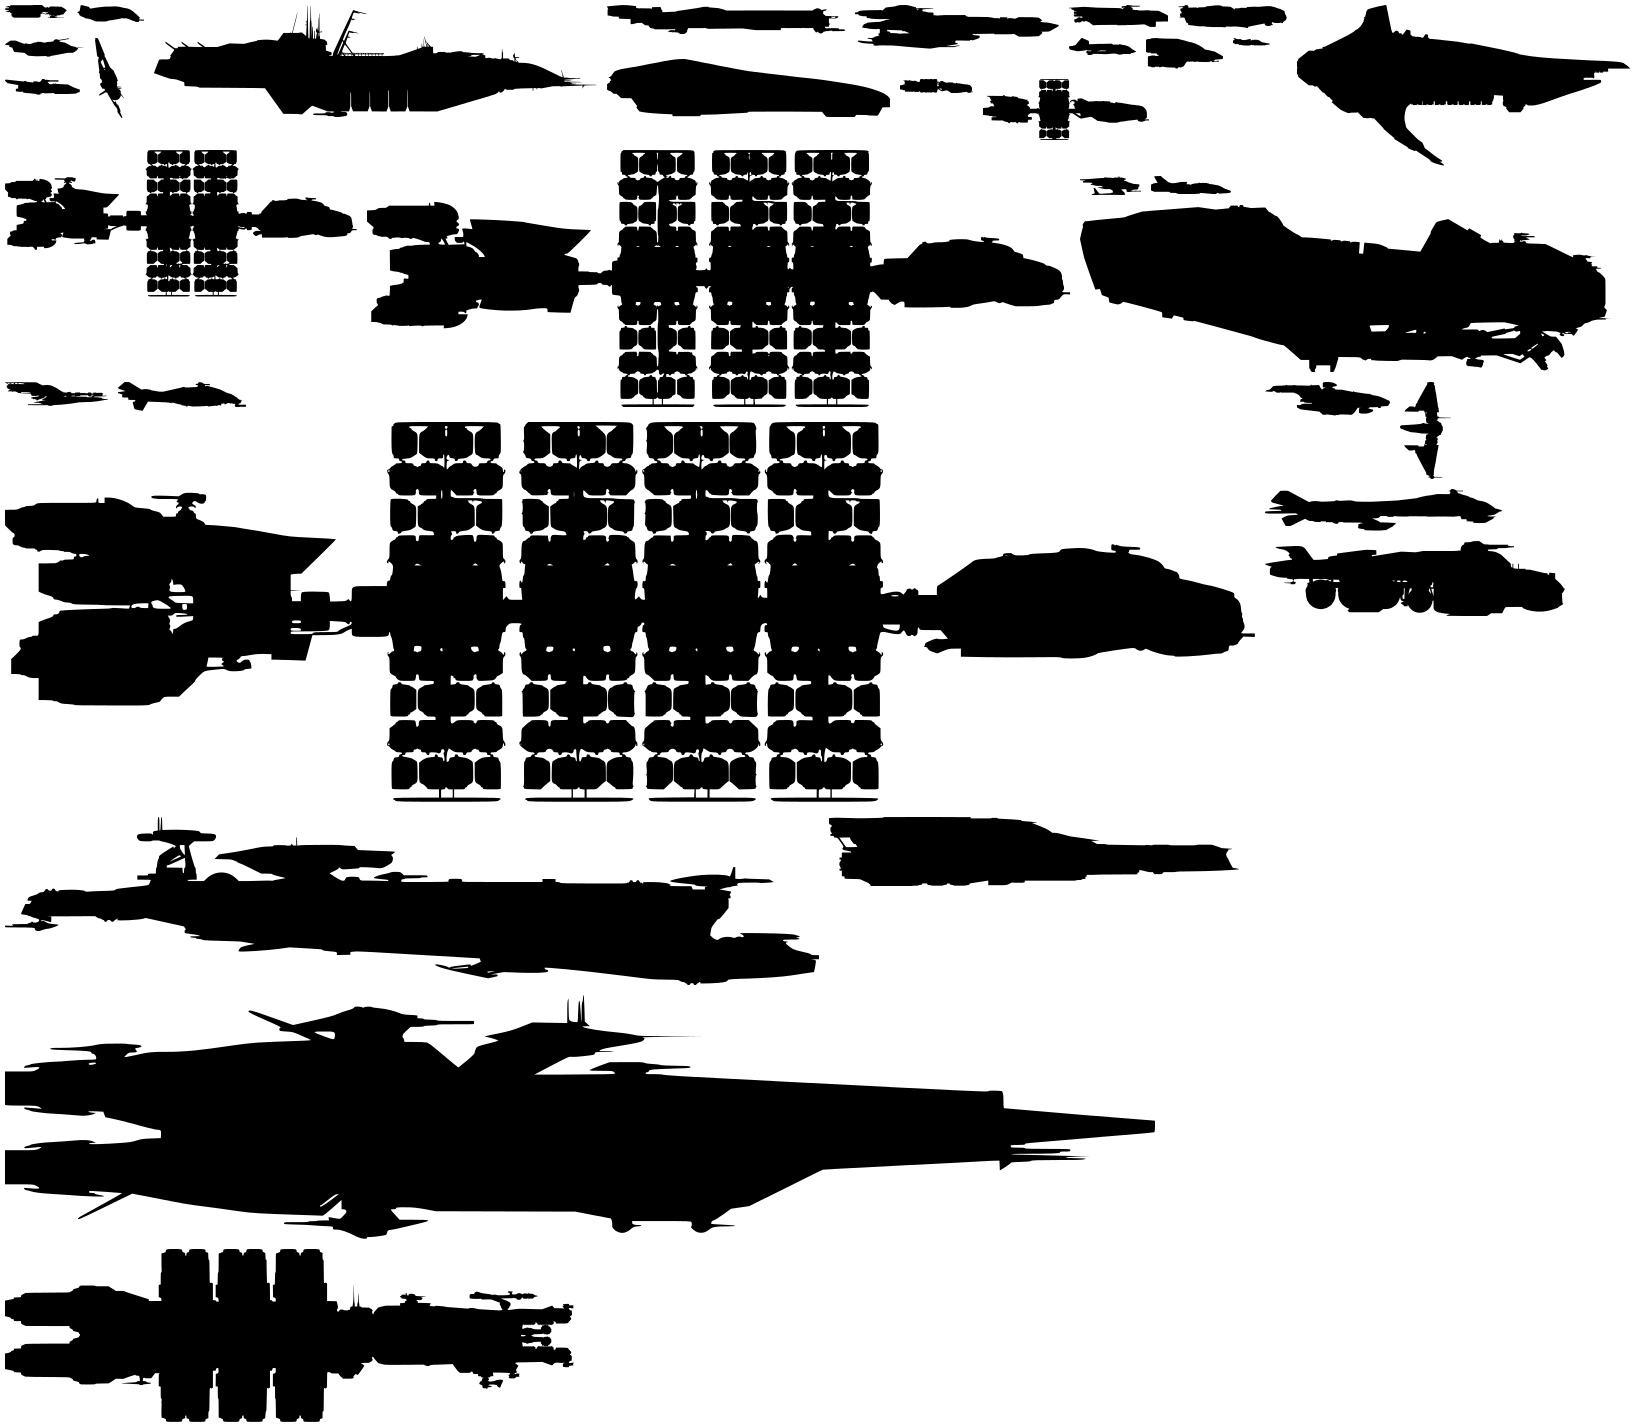
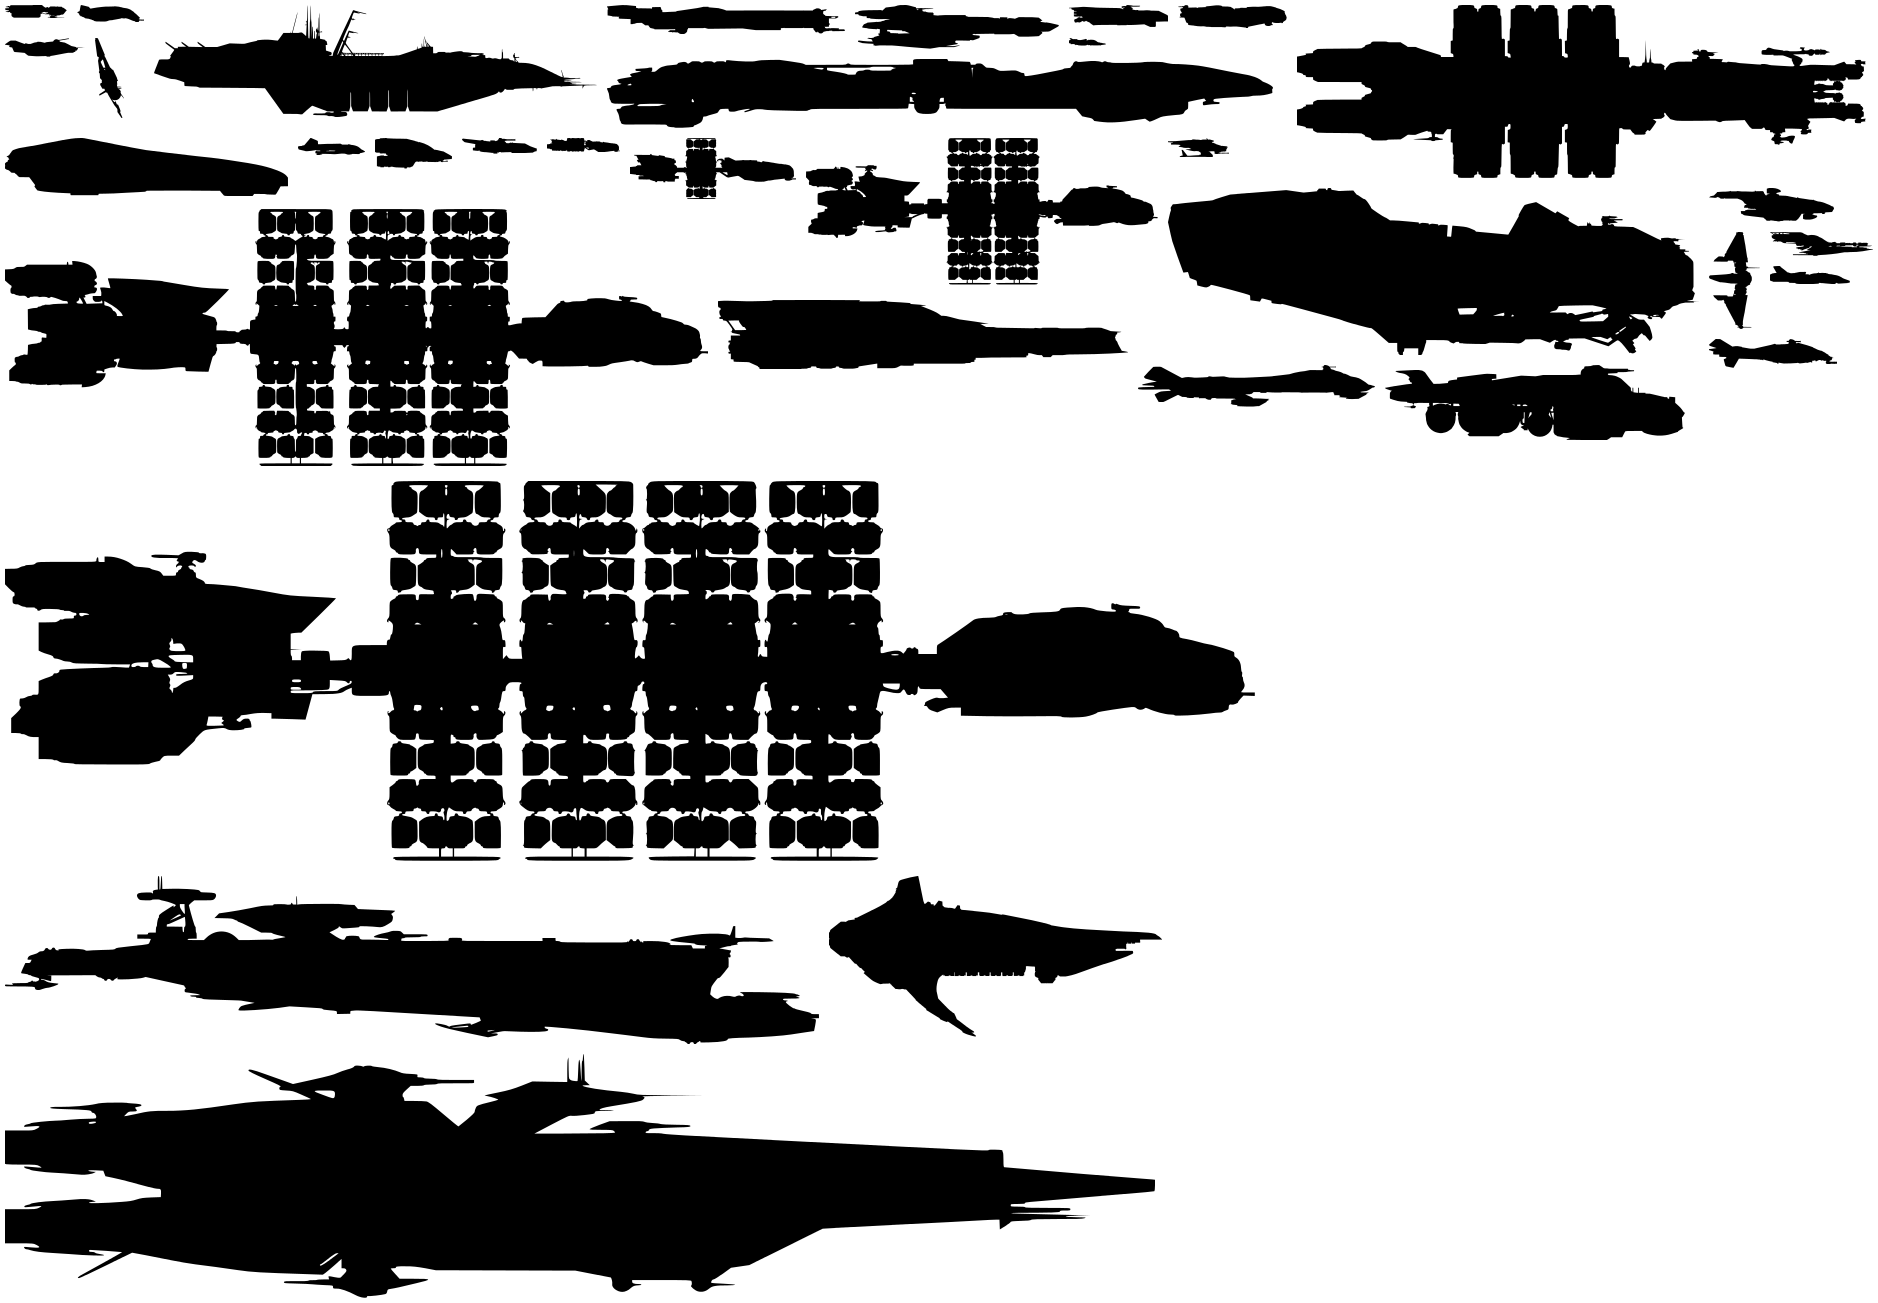
Merging #8

diff --git a/content/styles/Ships.css b/content/styles/Ships.css
@@ -43,6 +43,12 @@
     background-position: -1069px -5px;
 }
 
+.Endeavor {
+    width: 666px;
+    height: 69px;
+    background-position: -607px -59px;
+}
+
 .Freelancer {
     width: 109px;
     height: 23px;
@@ -52,7 +58,7 @@
 .Genesis {
     width: 283px;
     height: 58px;
-    background-position: -607px -59px;
+    background-position: -5px -138px;
 }
 
 .Gladiator {
@@ -64,67 +70,67 @@
 .Gladius {
     width: 67px;
     height: 17px;
-    background-position: -1069px -38px;
+    background-position: -298px -138px;
 }
 
 .Herald {
     width: 77px;
     height: 31px;
-    background-position: -1146px -38px;
+    background-position: -375px -138px;
 }
 
 .Hornet {
     width: 75px;
     height: 16px;
-    background-position: -5px -79px;
+    background-position: -462px -138px;
 }
 
 .Hull-A {
     width: 73px;
     height: 14px;
-    background-position: -900px -79px;
+    background-position: -547px -138px;
 }
 
 .Hull-B {
     width: 166px;
     height: 61px;
-    background-position: -983px -79px;
+    background-position: -630px -138px;
 }
 
 .Hull-C {
     width: 352px;
     height: 152px;
-    background-position: -5px -150px;
+    background-position: -806px -138px;
 }
 
 .Hull-D {
     width: 703px;
     height: 262px;
-    background-position: -367px -150px;
+    background-position: -5px -209px;
 }
 
 .Hull-E {
     width: 1250px;
     height: 385px;
-    background-position: -5px -422px;
+    background-position: -5px -481px;
 }
 
 .Idris {
     width: 814px;
     height: 168px;
-    background-position: -5px -817px;
+    background-position: -5px -876px;
 }
 
 .Javelin {
     width: 1150px;
     height: 244px;
-    background-position: -5px -995px;
+    background-position: -5px -1054px;
 }
 
 .Jump {
     width: 410px;
     height: 69px;
-    background-position: -829px -817px;
+    background-position: -718px -300px;
 }
 
 .Khartu {
@@ -136,71 +142,71 @@
 .M50 {
     width: 37px;
     height: 8px;
-    background-position: -1233px -38px;
+    background-position: -1069px -38px;
 }
 
 .Merchantman {
     width: 333px;
     height: 161px;
-    background-position: -1297px -5px;
+    background-position: -829px -876px;
 }
 
 .Mustang {
     width: 61px;
     height: 19px;
-    background-position: -1080px -176px;
+    background-position: -1168px -138px;
 }
 
 .Orion {
     width: 569px;
     height: 173px;
-    background-position: -5px -1249px;
+    background-position: -1297px -5px;
 }
 
 .Reclaimer {
     width: 531px;
     height: 167px;
-    background-position: -1080px -205px;
+    background-position: -1168px -188px;
 }
 
 .Redeemer {
     width: 125px;
     height: 34px;
-    background-position: -1265px -382px;
+    background-position: -1709px -188px;
 }
 
 .Reliant {
     width: 51px;
     height: 97px;
-    background-position: -1400px -382px;
+    background-position: -1709px -232px;
 }
 
 .Retaliator {
     width: 237px;
     height: 42px;
-    background-position: -1265px -489px;
+    background-position: -1138px -365px;
 }
 
 .Scythe {
     width: 103px;
     height: 24px;
-    background-position: -5px -382px;
+    background-position: -1770px -232px;
 }
 
 .Starfarer {
     width: 300px;
     height: 75px;
-    background-position: -1265px -541px;
+    background-position: -1385px -365px;
 }
 
 .Vanguard {
     width: 128px;
     height: 29px;
-    background-position: -118px -382px;
+    background-position: -1709px -339px;
 }
 
 .s300i {
     width: 80px;
     height: 18px;
-    background-position: -1151px -176px;
+    background-position: -1770px -266px;
 }

diff --git a/index.html b/index.html
@@ -88,6 +88,8 @@
             <dd><input type="number" id="MerchantmanShipNumber" data-shipname="Merchantman" data-shipclassname="Merchantman" /></dd>
             <dt>Carrack</td>
             <dd><input type="number" id="CarrackShipNumber" data-shipName="Carrack" data-shipClassName="Carrack"/></dd>
+            <dt>Endeavor</dt>
+            <dd><input type="number" id="EndeavorShipNumber" data-shipname="Endeavor" data-shipclassname="Endeavor" /></dd>
             <dt>Reclaimer</dt>
             <dd><input type="number" id="ReclaimerShipNumber" data-shipname="Reclaimer" data-shipclassname="Reclaimer" /></dd>
             <dt>Orion</td>
@@ -187,5 +189,15 @@
             <tbody></tbody>
         </table>
     </div>
+	<script>
+  (function(i,s,o,g,r,a,m){i['GoogleAnalyticsObject']=r;i[r]=i[r]||function(){
+  (i[r].q=i[r].q||[]).push(arguments)},i[r].l=1*new Date();a=s.createElement(o),
+  m=s.getElementsByTagName(o)[0];a.async=1;a.src=g;m.parentNode.insertBefore(a,m)
+  })(window,document,'script','//www.google-analytics.com/analytics.js','ga');
+
+  ga('create', 'UA-42538014-1', 'auto');
+  ga('send', 'pageview');
+
+</script>
 </body>
 </html>
